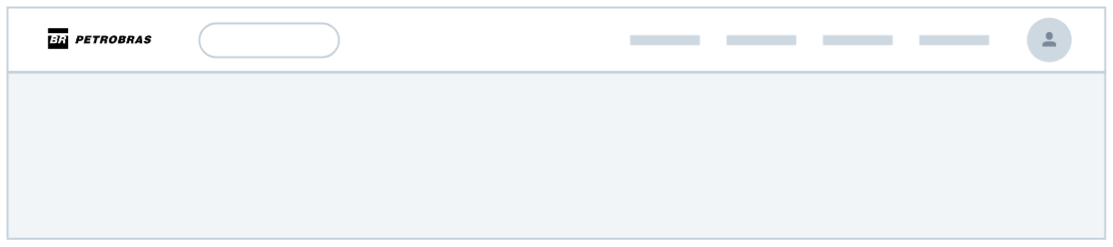
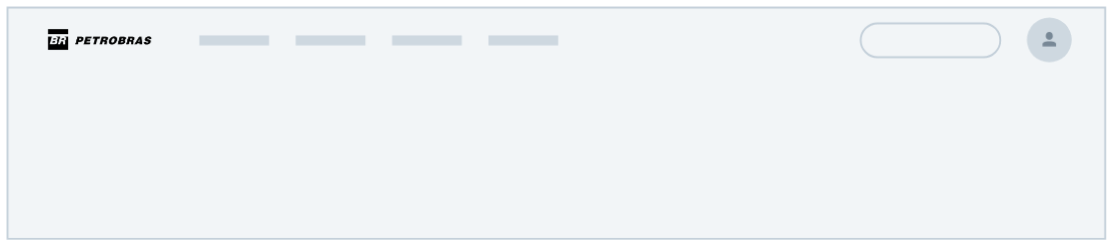
GITBOOK-166: No subject

diff --git a/colecao-de-interfaces/layouts-de-header.md b/colecao-de-interfaces/layouts-de-header.md
@@ -14,19 +14,19 @@ Aqui você encontrará uma variedade de designs de cabeçalhos que combinam esti
 
 Um cabeçalho que posiciona o logo à esquerda, inclui uma barra de busca e a navegação principal à direita com botões de ações globais.
 
-<figure><img src="../.gitbook/assets/image (1).png" alt=""><figcaption></figcaption></figure>
+<figure><img src="../.gitbook/assets/image (1) (1).png" alt=""><figcaption></figcaption></figure>
 
 ## **Logo à esquerda com navegação / Busca à direita com ações globais**
 
 Dispõe o logo e a navegação principal à esquerda e uma barra de busca junto com ações globais à direita.
 
-<figure><img src="../.gitbook/assets/image.png" alt=""><figcaption></figcaption></figure>
+<figure><img src="../.gitbook/assets/image (2).png" alt=""><figcaption></figcaption></figure>
 
 ## **Logo à esquerda / Navegação centralizada / Busca à direita com ações globais**
 
 Combina logo à esquerda, navegação centralizada no meio, e busca e ações globais à direita.
 
-<figure><img src="../.gitbook/assets/image (2).png" alt=""><figcaption></figcaption></figure>
+<figure><img src="../.gitbook/assets/image (2) (1).png" alt=""><figcaption></figcaption></figure>
 
 ## **Navegação à esquerda / Logo centralizado / Busca à direita com ações globais**
 
@@ -38,6 +38,10 @@ Caracteriza-se pela navegação à esquerda, logo centralizado e uma barra de bu
 
 Este layout coloca a navegação principal abaixo do cabeçalho principal, geralmente utilizado para separar claramente as seções do site.
 
+<figure><img src="../.gitbook/assets/image.png" alt=""><figcaption></figcaption></figure>
+
 ## **Sem container de fundo**
 
 Um design de cabeçalho limpo sem um fundo definido, criando um visual moderno e minimalista que se integra ao restante do conteúdo da página.
+
+<figure><img src="../.gitbook/assets/image (1).png" alt=""><figcaption></figcaption></figure>

diff --git a/colecao-de-interfaces/layouts-de-aplicacao.md b/colecao-de-interfaces/layouts-de-aplicacao.md
@@ -18,19 +18,19 @@ Combinação de menus verticais e horizontais, otimizando espaço e melhorando a
 
 &#x20;Prioriza a navegação horizontal no topo, com opções verticais complementares, facilitando o acesso direto a categorias maiores.
 
-<figure><img src="../.gitbook/assets/image (2) (1) (1).png" alt=""><figcaption></figcaption></figure>
+<figure><img src="../.gitbook/assets/image (2) (1) (1) (1).png" alt=""><figcaption></figcaption></figure>
 
 ## **Área de conteúdo limitada com navegação vertical**
 
 Conteúdo centralizado com navegação vertical ao lado, ideal para foco em elementos específicos sem distrações.
 
-<figure><img src="../.gitbook/assets/image (1) (1) (1).png" alt=""><figcaption></figcaption></figure>
+<figure><img src="../.gitbook/assets/image (1) (1) (1) (1).png" alt=""><figcaption></figcaption></figure>
 
 ## **Área de conteúdo limitada com navegação horizontal de largura total**
 
 Espaço de conteúdo delimitado com uma barra de navegação horizontal extensa, oferecendo visibilidade clara das seções disponíveis.
 
-<figure><img src="../.gitbook/assets/image (1) (1) (1) (1) (1).png" alt=""><figcaption></figcaption></figure>
+<figure><img src="../.gitbook/assets/image (1) (1) (1) (1) (1) (1).png" alt=""><figcaption></figcaption></figure>
 
 ## **Navegação lateral em múltiplas camadas**
 
@@ -60,7 +60,7 @@ Navegação minimalista com ícones, economizando espaço enquanto oferece acess
 
 Divide a tela em três áreas, permitindo uma distribuição equilibrada de conteúdo, navegação e funcionalidades adicionais.
 
-<figure><img src="../.gitbook/assets/image (2) (1).png" alt=""><figcaption></figcaption></figure>
+<figure><img src="../.gitbook/assets/image (2) (1) (1).png" alt=""><figcaption></figcaption></figure>
 
 ## **Coluna secundária à direita**
 

diff --git a/guia-de-identidade-visual/marca.md b/guia-de-identidade-visual/marca.md
@@ -12,13 +12,13 @@ O Nafto segue as especificações da [Marca Petrobras](https://petrobras.com.br/
 
 A marca é uma composição entre símbolo (a) e logotipo (b).
 
-<figure><img src="../.gitbook/assets/image (1) (1) (1) (1) (1) (1) (1) (1) (1) (1).png" alt=""><figcaption><p>Crédito da imagem: Manual do Sistema de Identidade Visual Petrobras</p></figcaption></figure>
+<figure><img src="../.gitbook/assets/image (1) (1) (1) (1) (1) (1) (1) (1) (1) (1) (1).png" alt=""><figcaption><p>Crédito da imagem: Manual do Sistema de Identidade Visual Petrobras</p></figcaption></figure>
 
 ## Área de Não Interferência
 
 É a distância mínima entre a marca e qualquer elemento que possa interferir na sua visualização. Essa distância é determinada pela altura (x) das letras “BR”.
 
-<figure><img src="../.gitbook/assets/image (1) (1) (1) (1) (1) (1) (1) (1) (1) (1) (1).png" alt=""><figcaption><p>Crédito da imagem: Manual do Sistema de Identidade Visual Petrobras</p></figcaption></figure>
+<figure><img src="../.gitbook/assets/image (1) (1) (1) (1) (1) (1) (1) (1) (1) (1) (1) (1).png" alt=""><figcaption><p>Crédito da imagem: Manual do Sistema de Identidade Visual Petrobras</p></figcaption></figure>
 
 ## Redução Máxima
 

diff --git a/tecnologias-e-plataformas/react/README.md b/tecnologias-e-plataformas/react/README.md
@@ -10,7 +10,7 @@ React é uma biblioteca JavaScript desenvolvida pelo Facebook (hoje Meta) para a
 
 Construída sobre a fundação do React, a biblioteca MUI oferece uma gama extensa de componentes de UI prontos para uso, que facilitam o desenvolvimento de interfaces ricas e consistentes. É a biblioteca recomenda para o desenvolvimento de aplicações React. O MUI é baseado nas especificações do Material Design do Google.
 
-<figure><img src="../../.gitbook/assets/image (1) (1) (1) (1) (1) (1) (1).png" alt=""><figcaption><p>Relacionamento entre Material UI e Material Design</p></figcaption></figure>
+<figure><img src="../../.gitbook/assets/image (1) (1) (1) (1) (1) (1) (1) (1).png" alt=""><figcaption><p>Relacionamento entre Material UI e Material Design</p></figcaption></figure>
 
 ## Produtos Oferecidos pela MUI <a href="#produtos-oferecidos-pela-mui" id="produtos-oferecidos-pela-mui"></a>
 

diff --git a/guia-de-identidade-visual/cores.md b/guia-de-identidade-visual/cores.md
@@ -10,7 +10,7 @@ São as cores presentes no símbolo e no logotipo da marca Petrobras e suas vers
 
 &#x20;É útil ter variantes claras e escuras das cores primárias para compor o tema de cores de uma aplicação.  Ao usar o plugin "Material Palette" no Figma para a cor Verde Petrobras o plugin gera uma paleta de cores completa baseada nessa cor específica.
 
-<figure><img src="../.gitbook/assets/image (1) (1) (1) (1) (1) (1) (1) (1) (1).png" alt=""><figcaption><p>Verde Petrobras e Variações</p></figcaption></figure>
+<figure><img src="../.gitbook/assets/image (1) (1) (1) (1) (1) (1) (1) (1) (1) (1).png" alt=""><figcaption><p>Verde Petrobras e Variações</p></figcaption></figure>
 
 Além das variações claras e escuras o Material Design define cores de destaque (accente colors: a100, a200, a400 e a700) quando possível.
 

diff --git a/tecnologias-e-plataformas/react/nafto-ui-kit-para-react.md b/tecnologias-e-plataformas/react/nafto-ui-kit-para-react.md
@@ -8,7 +8,7 @@ description: É a referência para os designers projetarem aplicações React.
 
 O Nafto UI Kit para React é um arquivo do Figma usado por designers no desenvolvimento de aplicações React. Ele é baseado no Material UI for Figma.
 
-<figure><img src="../../.gitbook/assets/image (1) (1) (1) (1) (1) (1).png" alt=""><figcaption><p>O Nafto UI Kit para React é utilizado pelos designers e é baseado no MUI for Figma</p></figcaption></figure>
+<figure><img src="../../.gitbook/assets/image (1) (1) (1) (1) (1) (1) (1).png" alt=""><figcaption><p>O Nafto UI Kit para React é utilizado pelos designers e é baseado no MUI for Figma</p></figcaption></figure>
 
 As customizações realizadas no MUI for Figma incluem:
 
